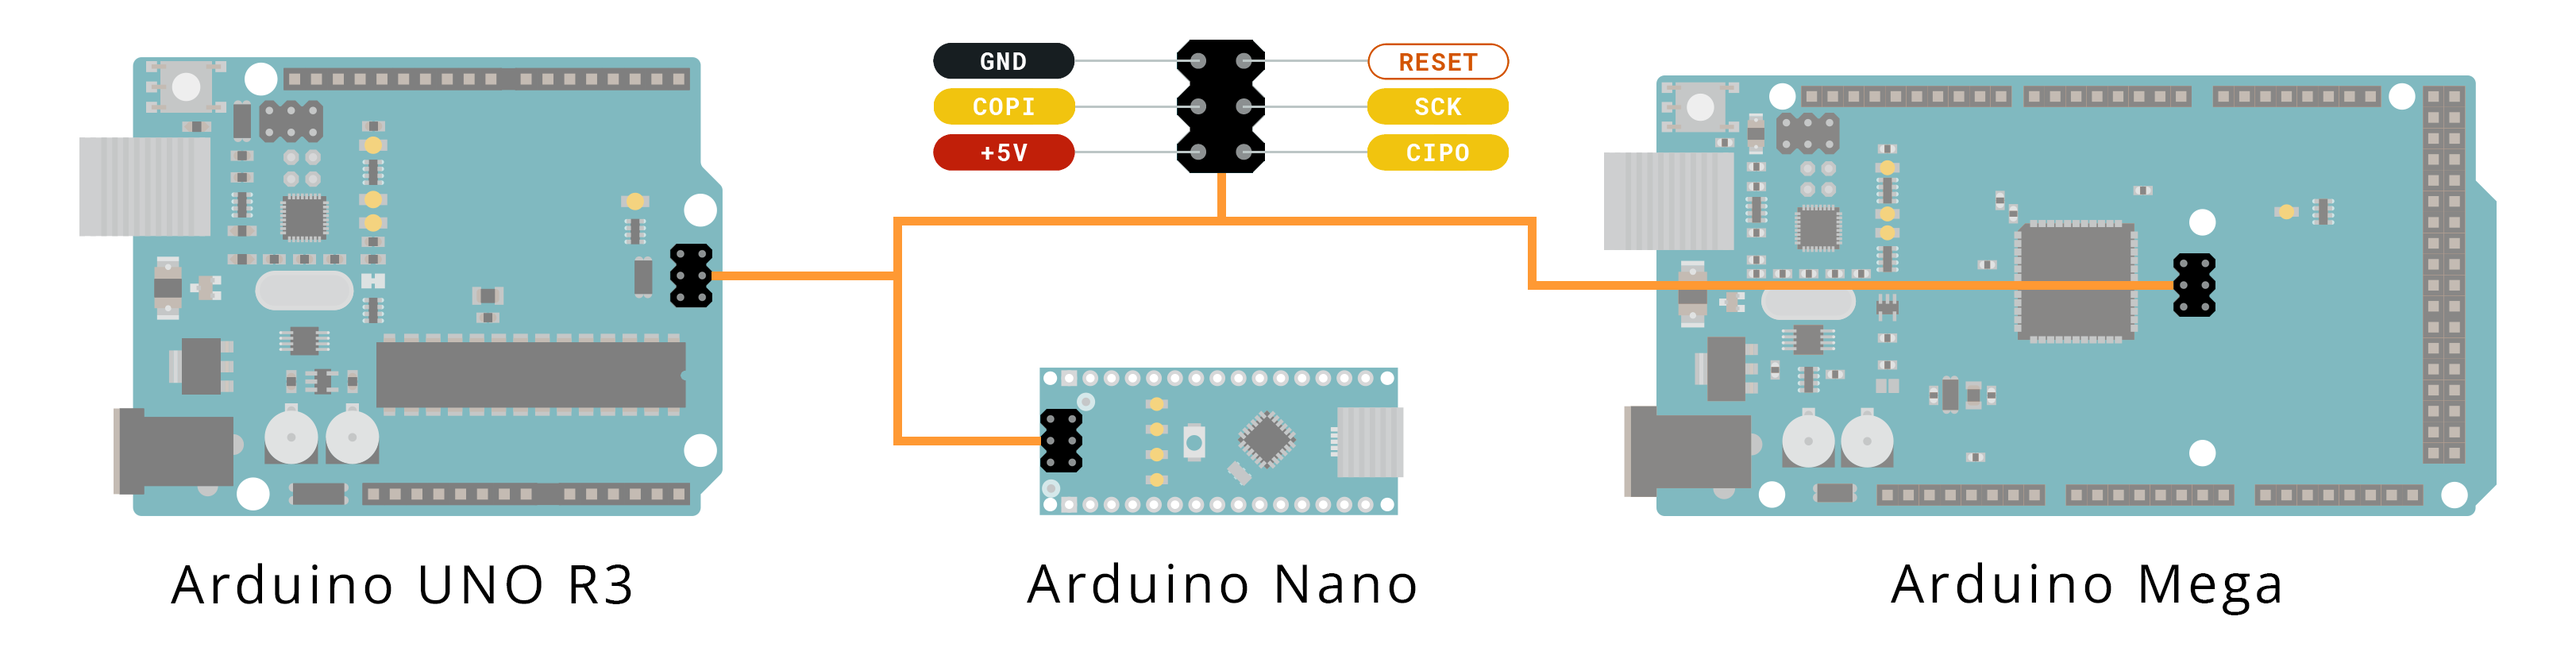
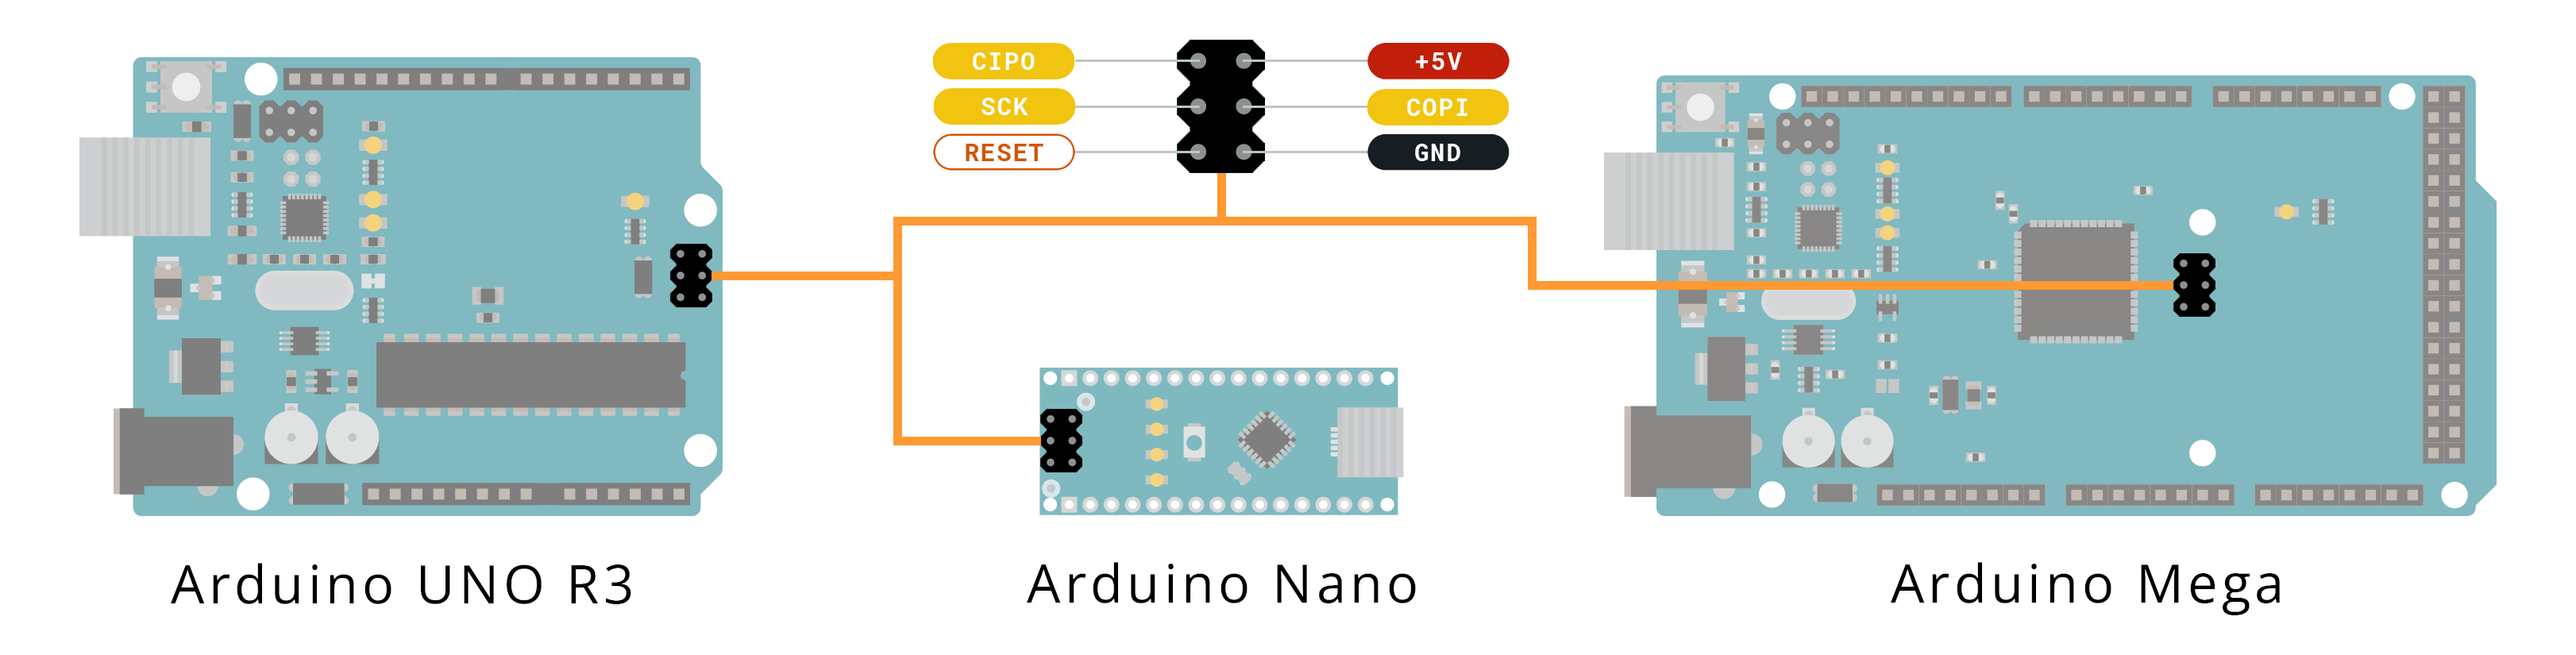
Fix mistakes in "Burn the bootloader on UNO, Mega, and classic Nano using another Arduino" (#123)
* Fix incorrect ICSP labels

* New and improved connection diagrams

diff --git a/content/Hardware Support/Core Boards/Burn-the-bootloader-on-UNO-Mega-and-classic-Nano-using-another-Arduino.md b/content/Hardware Support/Core Boards/Burn-the-bootloader-on-UNO-Mega-and-classic-Nano-using-another-Arduino.md
@@ -73,8 +73,8 @@ For each row in the table below, connect the programmer pin to the corresponding
 
 When the boards are connected, you can proceed with [burning the bootloader in Arduino IDE](#ide).
 
-<figure style="width: 500px; margin: 0;">
-    <img src="https://content.arduino.cc/assets/Nano_to_Uno_burn_bootloader.png" alt="Circuit Diagram. UNO and Nano connected with digital and power pins.">
+<figure style="width: 800px; margin: 0;">
+    <img src="img/Uno_to_Nano_burn_bootloader.png" alt="Circuit Diagram. UNO and Nano connected with digital and power pins.">
     <figcaption style="text-align: center; font-style: italic;">Example: Using an UNO to program a Nano (digital and power pins).</figcaption>
 </figure>
 
@@ -87,8 +87,8 @@ When the boards are connected, you can proceed with [burning the bootloader in A
 1. Connect every programmer ICSP pin except RESET to the equivalent ICSP pin on the target.
 2. Connect PIN 10 on the programmer board to any RESET pin on the target.
 
-<figure style="width: 400px; margin: 0;">
-    <img src="https://content.arduino.cc/assets/Connections-mega2Uno.png" alt="Circuit Diagram. UNO and Mega connected with ICSP pins.">
+<figure style="width: 800px; margin: 0;">
+    <img src="img/Connections-Uno2Mega.png" alt="Circuit Diagram. UNO and Mega connected with ICSP pins.">
     <figcaption style="text-align: center; font-style: italic;">Example: Using an UNO to program a Mega (ICSP pins).</figcaption>
 </figure>
 
